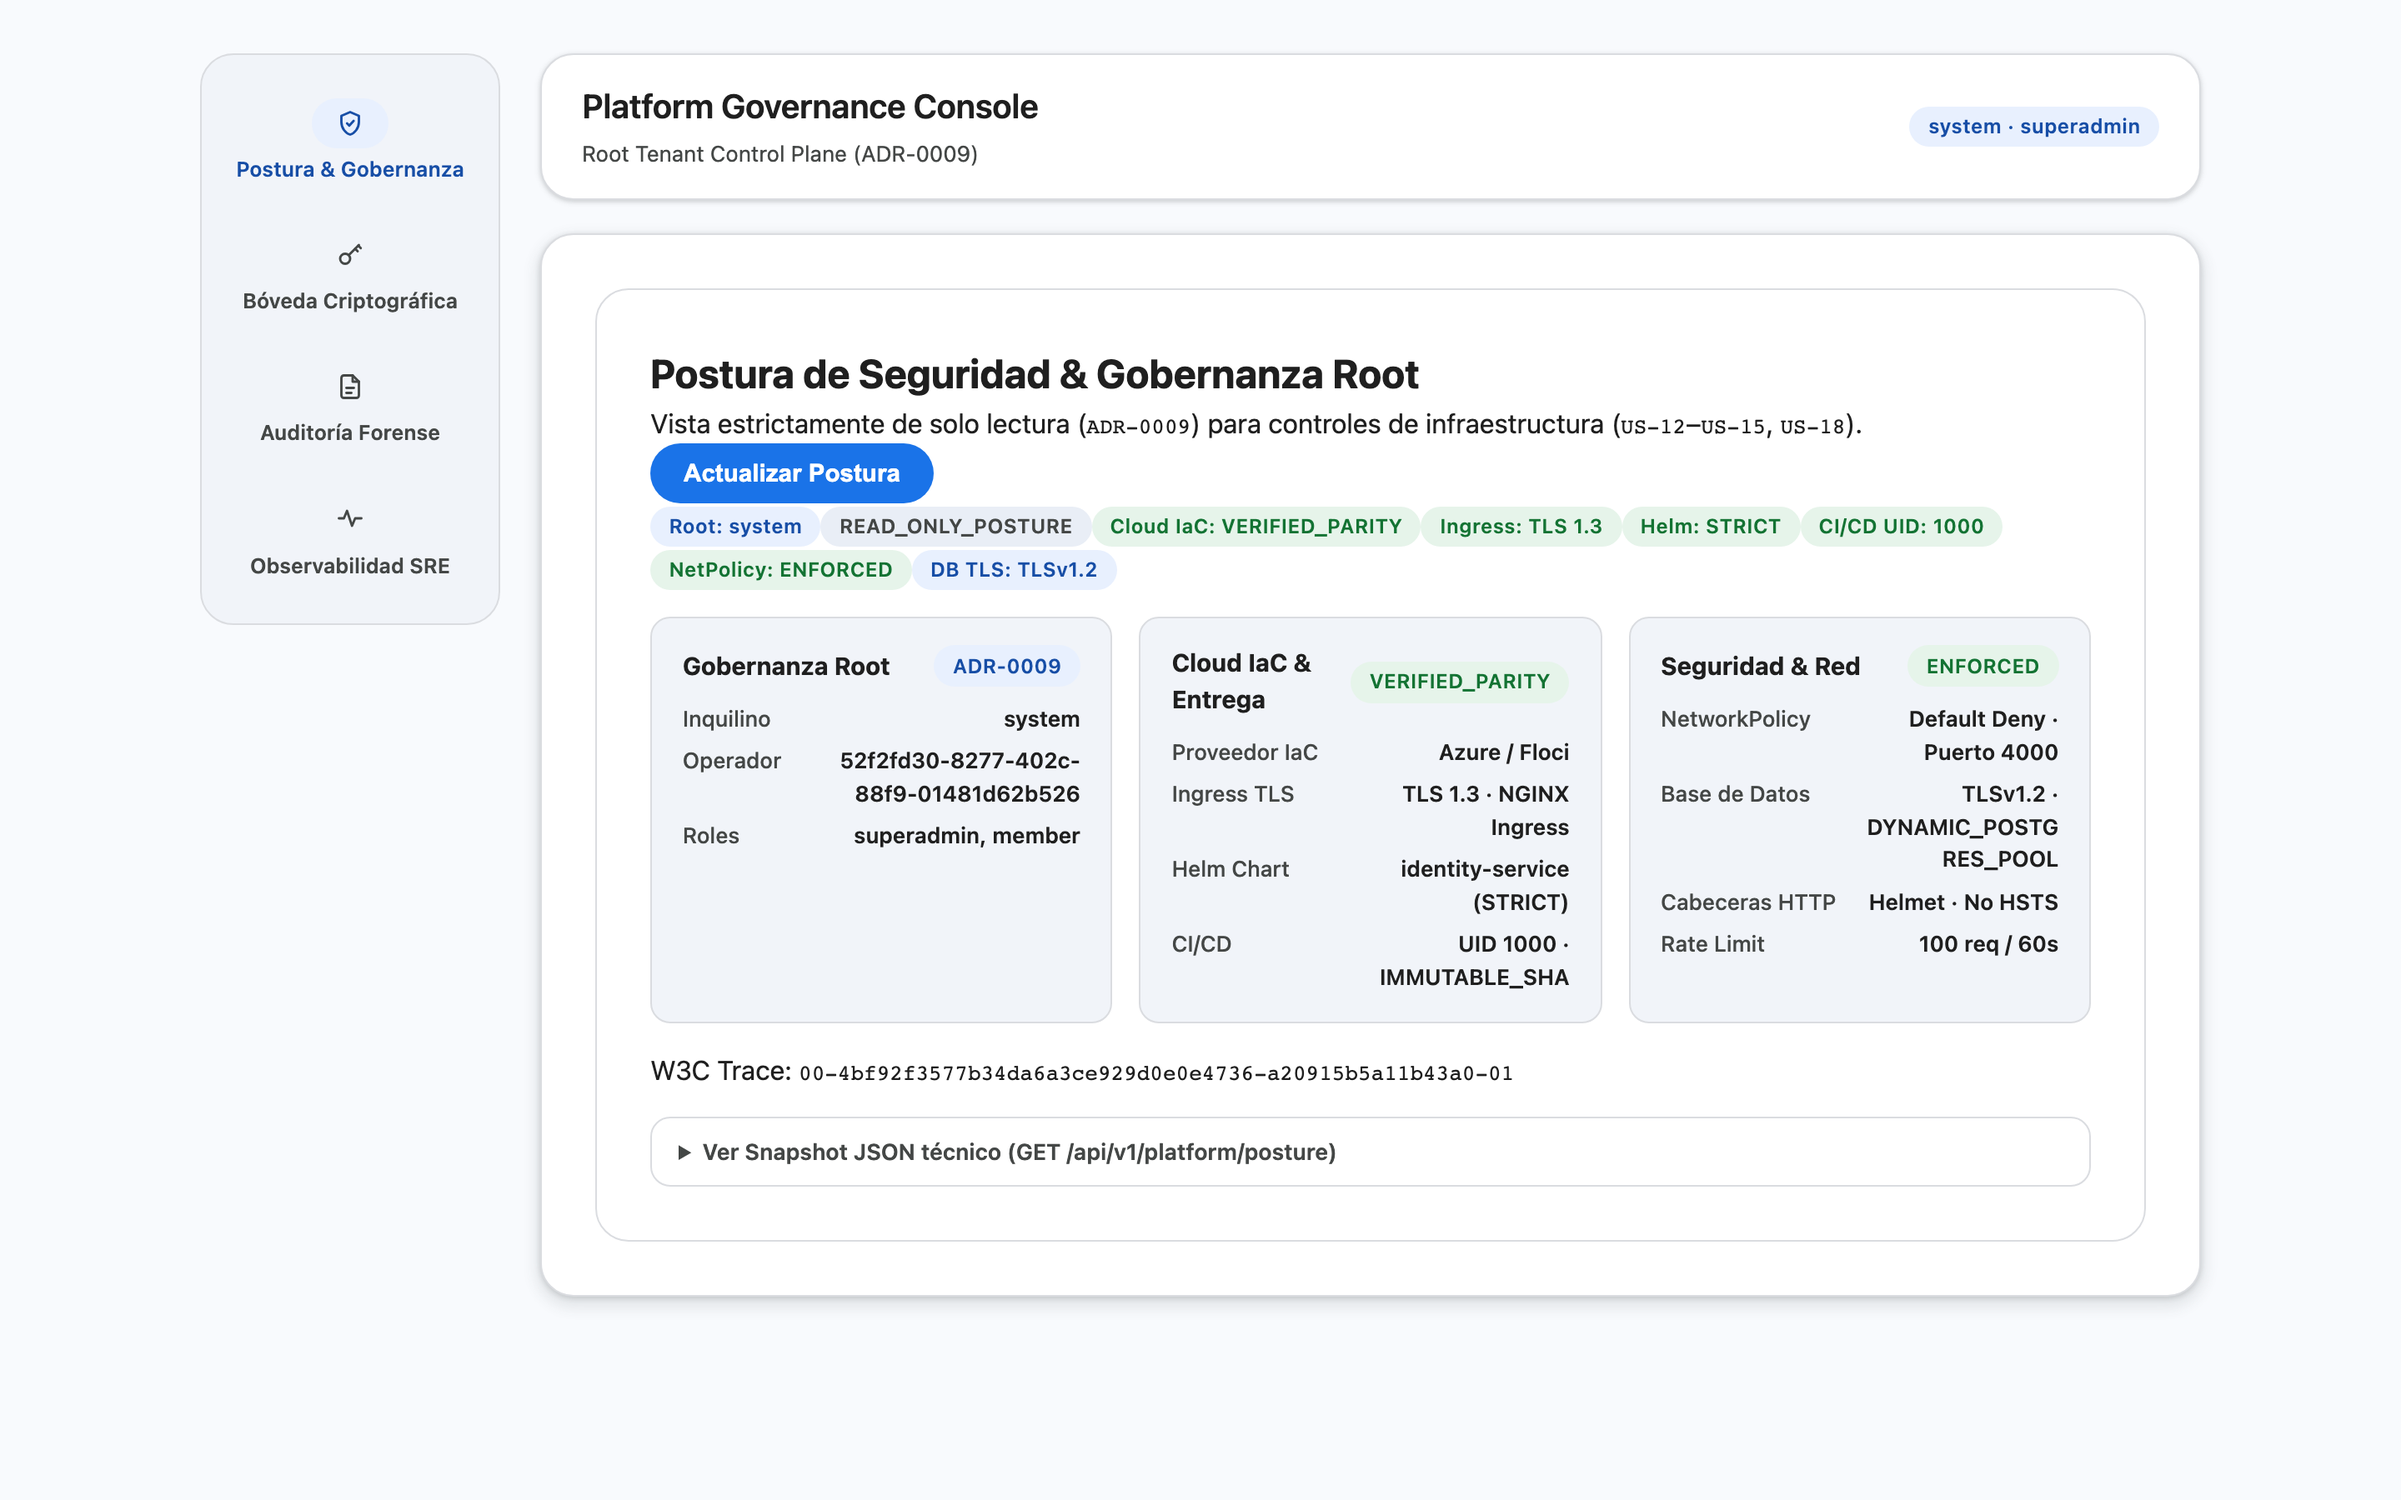
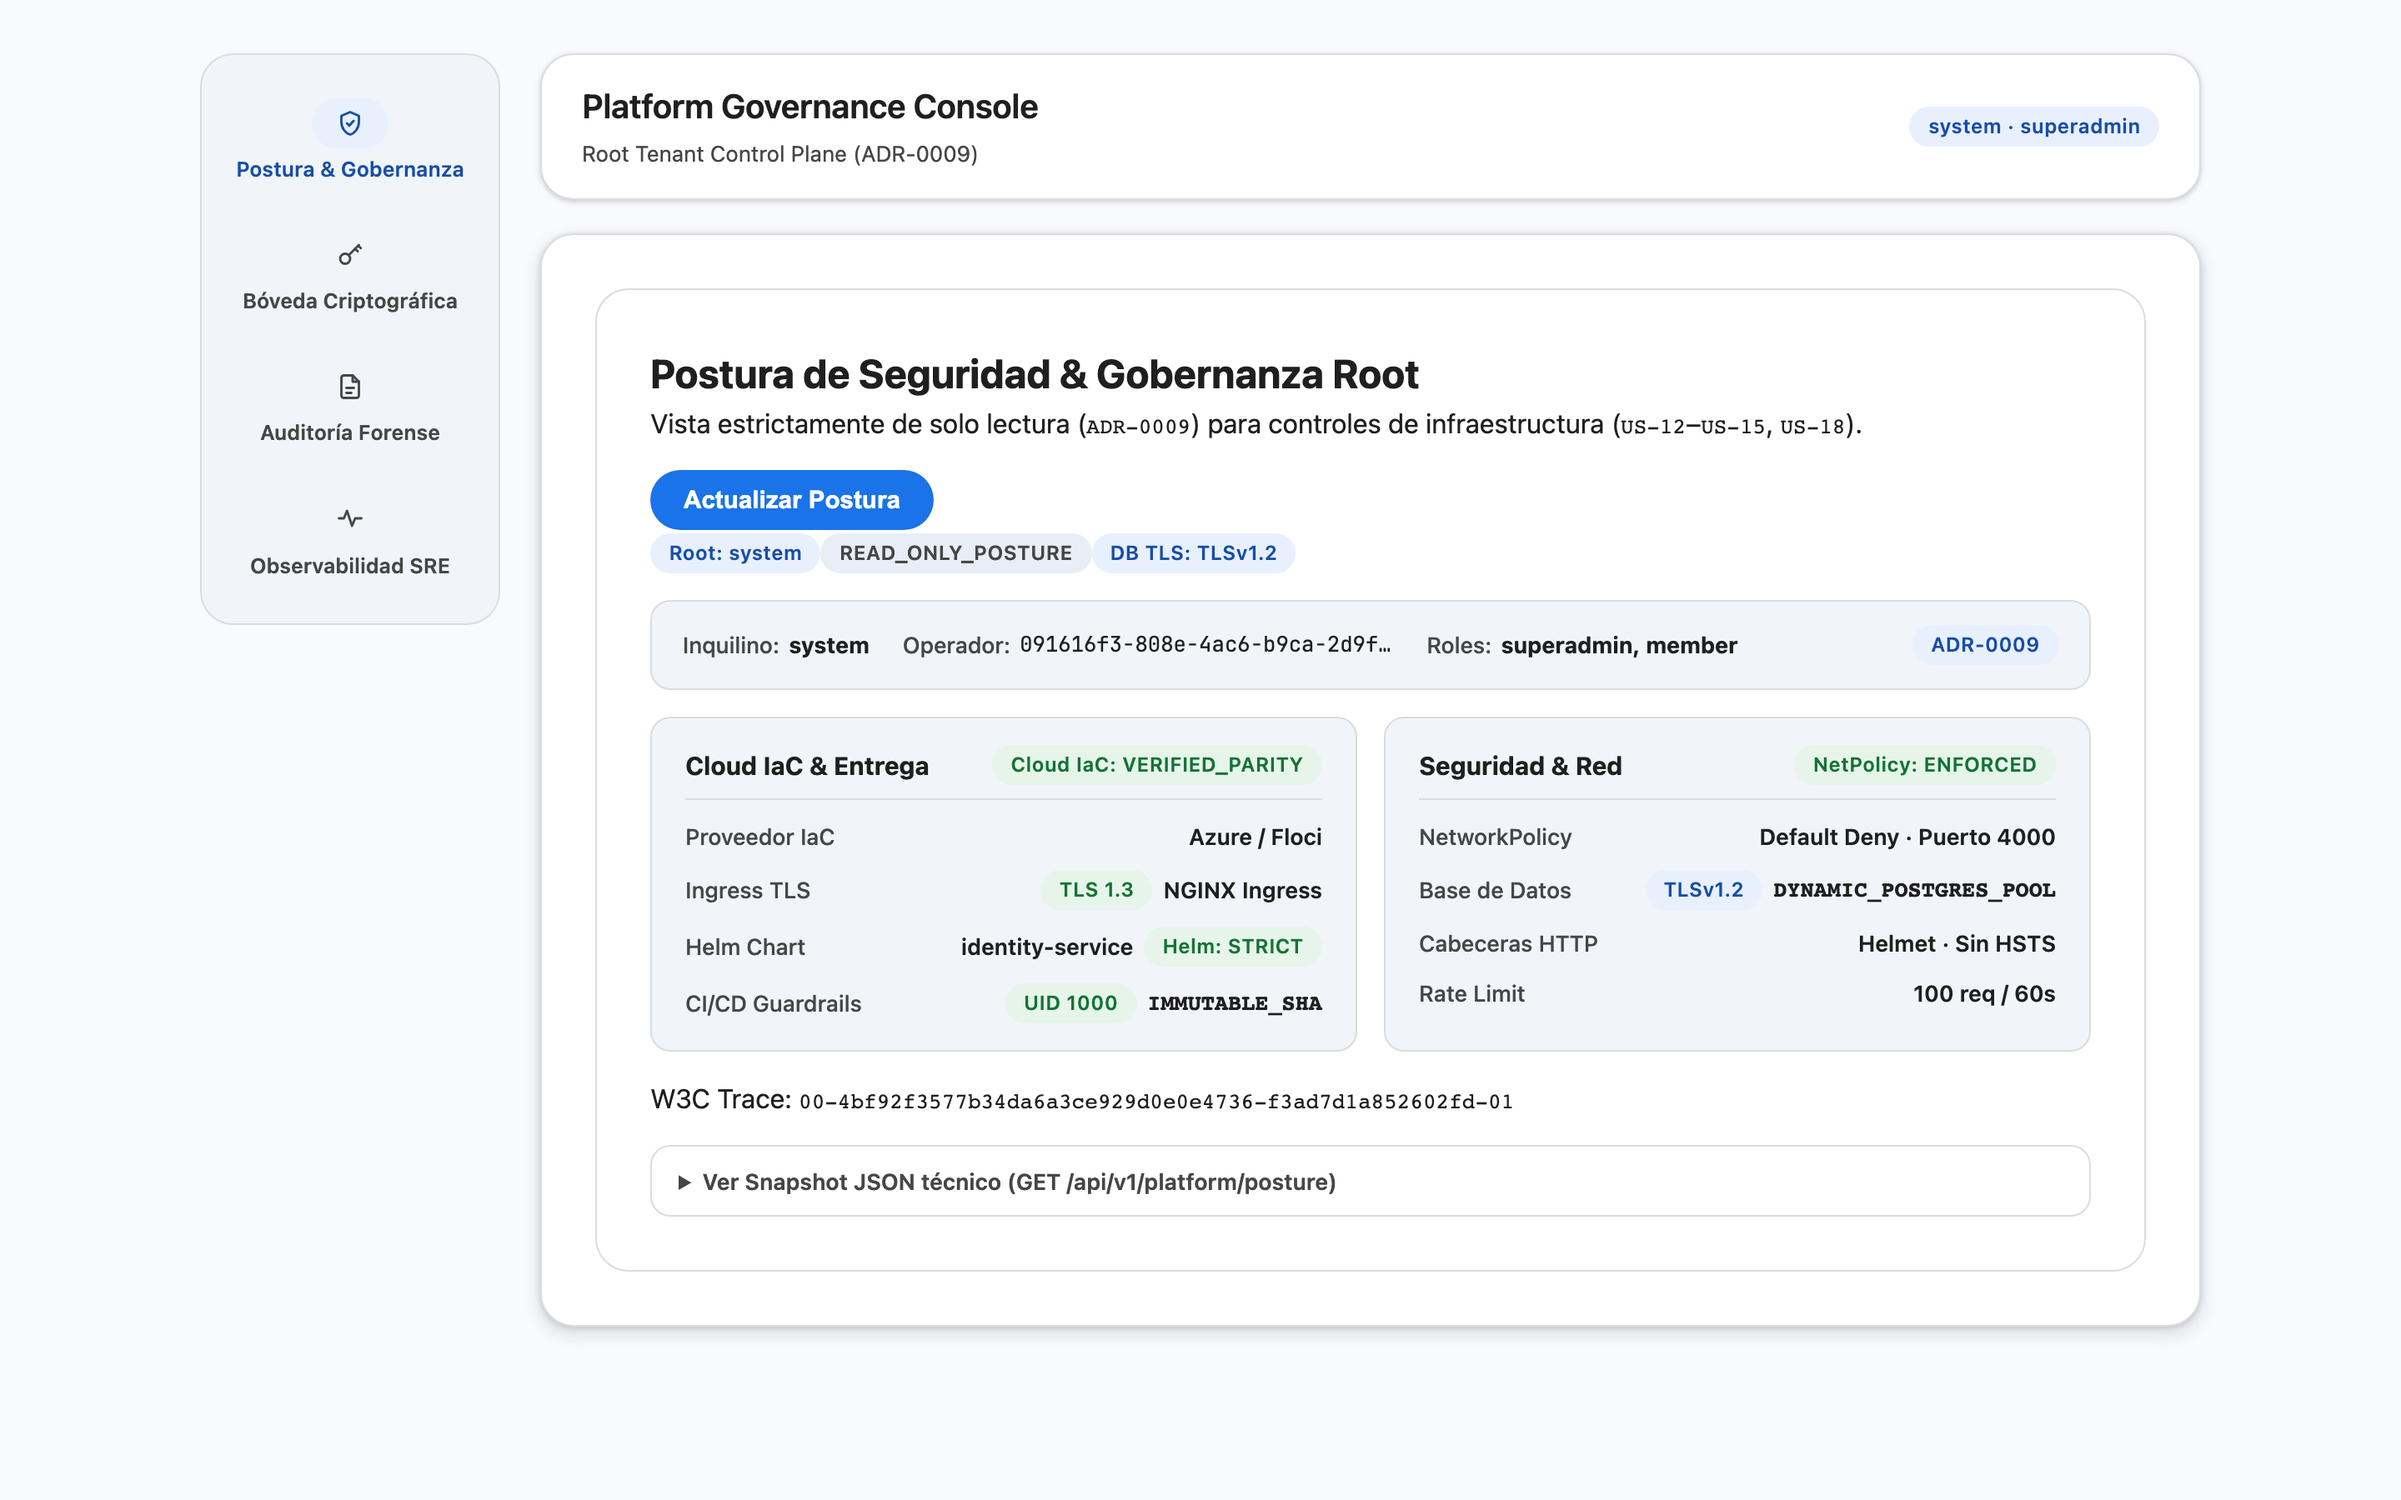
style(ui): refine SecurityPosturePanel layout, governance strip and 2-col cards

Changed region(s): [[0.25, 0.28, 0.8438, 0.8089], [0.2188, 0.84, 0.9062, 0.9022], [0.6875, 0.4044, 0.875, 0.6844]]

diff --git a/interfaces/web/client/contexts/platform/ui/SecurityPosturePanel.tsx b/interfaces/web/client/contexts/platform/ui/SecurityPosturePanel.tsx
@@ -116,84 +116,103 @@ export function SecurityPosturePanel({ session }: SecurityPosturePanelProps) {
             <div className="m3-chip-row">
               <M3Chip label={`Root: ${posture.governance.rootTenantId}`} tone="primary" />
               <M3Chip label={posture.governance.mode} tone="neutral" />
-              <M3Chip label={`Cloud IaC: ${posture.infrastructurePosture.cloudIac.status}`} tone="success" />
-              <M3Chip label={`Ingress: ${posture.infrastructurePosture.ingressTls.protocol}`} tone="success" />
-              <M3Chip label={`Helm: ${posture.infrastructurePosture.helmChart.schemaValidation}`} tone="success" />
-              <M3Chip label={`CI/CD UID: ${posture.infrastructurePosture.cicdGuardrails.nonRootUid}`} tone="success" />
-              <M3Chip label={`NetPolicy: ${posture.infrastructurePosture.networkPolicy.status}`} tone="success" />
               <M3Chip label={`DB TLS: ${posture.securityPosture.databaseTls.minVersion}`} tone="primary" />
             </div>
 
-            <div className="m3-posture-grid">
-              <section className="m3-posture-card" aria-label="Gobernanza Root">
-                <div className="m3-posture-card__header">
-                  <h3 className="m3-posture-card__title">Gobernanza Root</h3>
-                  <M3Chip label={posture.governance.adr} tone="primary" />
-                </div>
-                <dl className="m3-posture-kv">
-                  <dt>Inquilino</dt>
-                  <dd>{posture.governance.rootTenantId}</dd>
-                  <dt>Operador</dt>
-                  <dd>{posture.governance.actor.userId ?? 'N/A'}</dd>
-                  <dt>Roles</dt>
-                  <dd>{posture.governance.actor.roles.join(', ')}</dd>
-                </dl>
-              </section>
+            <section className="m3-governance-strip" aria-label="Gobernanza Root">
+              <div className="m3-governance-meta">
+                <span className="m3-governance-meta__item">
+                  <span className="m3-governance-meta__label">Inquilino:</span>
+                  <strong>{posture.governance.rootTenantId}</strong>
+                </span>
+                <span className="m3-governance-meta__item">
+                  <span className="m3-governance-meta__label">Operador:</span>
+                  <code
+                    className="m3-mono-truncate"
+                    title={posture.governance.actor.userId ?? 'N/A'}
+                  >
+                    {posture.governance.actor.userId ?? 'N/A'}
+                  </code>
+                </span>
+                <span className="m3-governance-meta__item">
+                  <span className="m3-governance-meta__label">Roles:</span>
+                  <strong>{posture.governance.actor.roles.join(', ')}</strong>
+                </span>
+              </div>
+              <M3Chip label={posture.governance.adr} tone="primary" />
+            </section>
 
+            <div className="m3-posture-grid">
               <section className="m3-posture-card" aria-label="Infraestructura Cloud y Entrega">
                 <div className="m3-posture-card__header">
                   <h3 className="m3-posture-card__title">Cloud IaC &amp; Entrega</h3>
-                  <M3Chip label={posture.infrastructurePosture.cloudIac.status} tone="success" />
+                  <M3Chip label={`Cloud IaC: ${posture.infrastructurePosture.cloudIac.status}`} tone="success" />
                 </div>
-                <dl className="m3-posture-kv">
-                  <dt>Proveedor IaC</dt>
-                  <dd>{posture.infrastructurePosture.cloudIac.provider}</dd>
-                  <dt>Ingress TLS</dt>
-                  <dd>
-                    {posture.infrastructurePosture.ingressTls.protocol} ·{' '}
-                    {posture.infrastructurePosture.ingressTls.proxyMode}
-                  </dd>
-                  <dt>Helm Chart</dt>
-                  <dd>
-                    {posture.infrastructurePosture.helmChart.release} (
-                    {posture.infrastructurePosture.helmChart.schemaValidation})
-                  </dd>
-                  <dt>CI/CD</dt>
-                  <dd>
-                    UID {posture.infrastructurePosture.cicdGuardrails.nonRootUid} ·{' '}
-                    {posture.infrastructurePosture.cicdGuardrails.imageTagPolicy}
-                  </dd>
+                <dl className="m3-posture-list">
+                  <div className="m3-posture-row">
+                    <dt>Proveedor IaC</dt>
+                    <dd>{posture.infrastructurePosture.cloudIac.provider}</dd>
+                  </div>
+                  <div className="m3-posture-row">
+                    <dt>Ingress TLS</dt>
+                    <dd>
+                      <M3Chip label={posture.infrastructurePosture.ingressTls.protocol} tone="success" />
+                      <span>{posture.infrastructurePosture.ingressTls.proxyMode}</span>
+                    </dd>
+                  </div>
+                  <div className="m3-posture-row">
+                    <dt>Helm Chart</dt>
+                    <dd>
+                      <span>{posture.infrastructurePosture.helmChart.release}</span>
+                      <M3Chip label={`Helm: ${posture.infrastructurePosture.helmChart.schemaValidation}`} tone="success" />
+                    </dd>
+                  </div>
+                  <div className="m3-posture-row">
+                    <dt>CI/CD Guardrails</dt>
+                    <dd>
+                      <M3Chip label={`UID ${posture.infrastructurePosture.cicdGuardrails.nonRootUid}`} tone="success" />
+                      <code>{posture.infrastructurePosture.cicdGuardrails.imageTagPolicy}</code>
+                    </dd>
+                  </div>
                 </dl>
               </section>
 
               <section className="m3-posture-card" aria-label="Seguridad y Red">
                 <div className="m3-posture-card__header">
                   <h3 className="m3-posture-card__title">Seguridad &amp; Red</h3>
-                  <M3Chip label={posture.infrastructurePosture.networkPolicy.status} tone="success" />
+                  <M3Chip label={`NetPolicy: ${posture.infrastructurePosture.networkPolicy.status}`} tone="success" />
                 </div>
-                <dl className="m3-posture-kv">
-                  <dt>NetworkPolicy</dt>
-                  <dd>
-                    {posture.infrastructurePosture.networkPolicy.defaultDenyAll
-                      ? `Default Deny · Puerto ${posture.infrastructurePosture.networkPolicy.allowedIngressPort}`
-                      : 'Permissive'}
-                  </dd>
-                  <dt>Base de Datos</dt>
-                  <dd>
-                    {posture.securityPosture.databaseTls.minVersion} ·{' '}
-                    {posture.securityPosture.databaseTls.mode}
-                  </dd>
-                  <dt>Cabeceras HTTP</dt>
-                  <dd>
-                    {posture.securityPosture.securityHeaders.helmetEnabled ? 'Helmet' : 'Off'} ·{' '}
-                    {posture.securityPosture.securityHeaders.hstsEnabled ? 'HSTS' : 'No HSTS'}
-                  </dd>
-                  <dt>Rate Limit</dt>
-                  <dd>
-                    {posture.securityPosture.rateLimiting.enabled
-                      ? `${posture.securityPosture.rateLimiting.maxRequestsPerWindow} req / ${Math.round(posture.securityPosture.rateLimiting.windowMs / 1000)}s`
-                      : 'Deshabilitado'}
-                  </dd>
+                <dl className="m3-posture-list">
+                  <div className="m3-posture-row">
+                    <dt>NetworkPolicy</dt>
+                    <dd>
+                      {posture.infrastructurePosture.networkPolicy.defaultDenyAll
+                        ? `Default Deny · Puerto ${posture.infrastructurePosture.networkPolicy.allowedIngressPort}`
+                        : 'Permissive'}
+                    </dd>
+                  </div>
+                  <div className="m3-posture-row">
+                    <dt>Base de Datos</dt>
+                    <dd>
+                      <M3Chip label={posture.securityPosture.databaseTls.minVersion} tone="primary" />
+                      <code>{posture.securityPosture.databaseTls.mode}</code>
+                    </dd>
+                  </div>
+                  <div className="m3-posture-row">
+                    <dt>Cabeceras HTTP</dt>
+                    <dd>
+                      {posture.securityPosture.securityHeaders.helmetEnabled ? 'Helmet' : 'Off'} ·{' '}
+                      {posture.securityPosture.securityHeaders.hstsEnabled ? 'HSTS' : 'Sin HSTS'}
+                    </dd>
+                  </div>
+                  <div className="m3-posture-row">
+                    <dt>Rate Limit</dt>
+                    <dd>
+                      {posture.securityPosture.rateLimiting.enabled
+                        ? `${posture.securityPosture.rateLimiting.maxRequestsPerWindow} req / ${Math.round(posture.securityPosture.rateLimiting.windowMs / 1000)}s`
+                        : 'Deshabilitado'}
+                    </dd>
+                  </div>
                 </dl>
               </section>
             </div>

diff --git a/interfaces/web/client/styles.css b/interfaces/web/client/styles.css
@@ -265,20 +265,34 @@ body {
   height: 18px;
 }
 
+.m3-toolbar {
+  display: flex;
+  justify-content: space-between;
+  align-items: flex-start;
+  gap: 1rem;
+  flex-wrap: wrap;
+}
+
 .m3-posture-grid {
   display: grid;
-  grid-template-columns: repeat(auto-fit, minmax(260px, 1fr));
+  grid-template-columns: repeat(2, minmax(0, 1fr));
   gap: 1rem;
+}
+
+@media (max-width: 760px) {
+  .m3-posture-grid {
+    grid-template-columns: 1fr;
+  }
 }
 
 .m3-posture-card {
   background: var(--md-sys-color-surface-container-low, #f8fafd);
   border: 1px solid var(--border);
   border-radius: var(--md-sys-shape-corner-medium, 12px);
-  padding: 1rem 1.15rem;
+  padding: 1rem 1.25rem;
   display: flex;
   flex-direction: column;
-  gap: 0.65rem;
+  gap: 0.75rem;
 }
 
 .m3-posture-card__header {
@@ -286,32 +300,88 @@ body {
   justify-content: space-between;
   align-items: center;
   gap: 0.5rem;
+  padding-bottom: 0.5rem;
+  border-bottom: 1px solid var(--border);
 }
 
 .m3-posture-card__title {
-  font-size: 0.92rem;
+  font-size: 0.94rem;
   font-weight: 700;
   margin: 0;
 }
 
-.m3-posture-kv {
-  display: grid;
-  grid-template-columns: auto 1fr;
-  gap: 0.35rem 0.75rem;
-  font-size: 0.82rem;
-  margin: 0;
+.m3-governance-strip {
+  display: flex;
+  flex-wrap: wrap;
+  align-items: center;
+  justify-content: space-between;
+  gap: 0.75rem 1.25rem;
+  background: var(--md-sys-color-surface-container-low, #f8fafd);
+  border: 1px solid var(--border);
+  border-radius: var(--md-sys-shape-corner-medium, 12px);
+  padding: 0.85rem 1.15rem;
 }
 
-.m3-posture-kv dt {
+.m3-governance-meta {
+  display: flex;
+  flex-wrap: wrap;
+  align-items: center;
+  gap: 0.5rem 1.25rem;
+  font-size: 0.84rem;
+}
+
+.m3-governance-meta__item {
+  display: inline-flex;
+  align-items: center;
+  gap: 0.35rem;
+}
+
+.m3-governance-meta__label {
   color: var(--text-muted);
   font-weight: 500;
 }
 
-.m3-posture-kv dd {
+.m3-posture-list {
+  display: flex;
+  flex-direction: column;
+  gap: 0.6rem;
+  margin: 0;
+}
+
+.m3-posture-row {
+  display: flex;
+  justify-content: space-between;
+  align-items: center;
+  gap: 0.75rem;
+  font-size: 0.84rem;
+}
+
+.m3-posture-row dt {
+  color: var(--text-muted);
+  font-weight: 500;
+  flex-shrink: 0;
+}
+
+.m3-posture-row dd {
   margin: 0;
   font-weight: 600;
   text-align: right;
-  word-break: break-word;
+  display: inline-flex;
+  align-items: center;
+  gap: 0.4rem;
+  flex-wrap: wrap;
+  justify-content: flex-end;
+}
+
+.m3-mono-truncate {
+  font-family: var(--md-sys-typescale-font-mono, monospace);
+  font-size: 0.8rem;
+  max-width: 14rem;
+  overflow: hidden;
+  text-overflow: ellipsis;
+  white-space: nowrap;
+  display: inline-block;
+  vertical-align: bottom;
 }
 
 .m3-collapsible-json {
